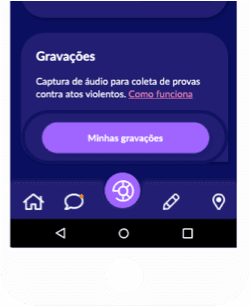
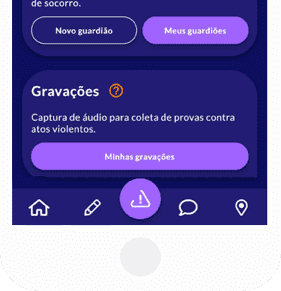
atualizando os tutoriais

diff --git a/penhas/lib/app/features/help_center/presentation/pages/tutorial/record/record_tutorial_page.dart b/penhas/lib/app/features/help_center/presentation/pages/tutorial/record/record_tutorial_page.dart
@@ -39,18 +39,18 @@ class _RecordTutorialPageState extends State<RecordTutorialPage> {
         image:
             AssetImage('assets/images/tutorial_record_3/tutorial_record_3.png'),
         width: 270,
-        fit: BoxFit.fitWidth,
+        fit: BoxFit.fitHeight,
         alignment: FractionalOffset.topCenter,
       ),
     ),
     TutorialPageViewWidget(
       description:
-          'Os áudios gravados no acionamento do botão de pânico ficam disponíveis em "Minhas gravações". Quando estiver segura, decida entre salvar ou descartar essas gravações.',
+          'Os áudios gravados ficam disponíveis em “Minhas gravações”. Uma gravação pode ser descartada a qualquer momento através da opção “Apagar”.',
       bodyWidget: Image(
         image:
             AssetImage('assets/images/tutorial_record_4/tutorial_record_4.png'),
         width: 270,
-        fit: BoxFit.fitWidth,
+        fit: BoxFit.fitHeight,
         alignment: FractionalOffset.topCenter,
       ),
     )

diff --git a/penhas/lib/app/features/quiz/presentation/tutorial/stealth_mode_tutorial_page.dart b/penhas/lib/app/features/quiz/presentation/tutorial/stealth_mode_tutorial_page.dart
@@ -28,12 +28,12 @@ class _StealthModeTutorialPageState extends State<StealthModeTutorialPage> {
       title:
           'Aplique um disfarce de app de signo para esconder o verdadeiro conteúdo do PenhaS',
       description:
-          'Para fazer entrar no app com o modo modo camuflado ativo, clique no botão "Diário astrológico" para ser direcionada para a tela de login.',
+          'Para fazer entrar no app com o modo camuflado ativo, clique no botão "Diário astrológico" para ser direcionada para a tela de login.',
       bodyWidget: Image(
         image: AssetImage(
             'assets/images/stealth_mode_tutorial_image_2/stealth_mode_tutorial_image_2.png'),
         width: 270,
-        fit: BoxFit.fitWidth,
+        fit: BoxFit.fitHeight,
         alignment: FractionalOffset.topCenter,
       ),
     ),

diff --git a/penhas/lib/app/features/help_center/presentation/pages/tutorial/guardian/guardian_tutorial_page.dart b/penhas/lib/app/features/help_center/presentation/pages/tutorial/guardian/guardian_tutorial_page.dart
@@ -21,7 +21,7 @@ class _GuardianTutorialPageState extends State<GuardianTutorialPage> {
     ),
     TutorialPageViewWidget(
       description:
-          'Em situações de emergência, abra a app, clique e segure no símbolo do seu signo para acionar o botão de pânico. Isso enviará um alerta para seus guardiões e durante 15 minutos um áudio será gravado.',
+          'Em situações de emergência, abra o app, clique e segure no símbolo do seu signo para acionar o botão de pânico. Isso enviará um alerta para seus guardiões e durante 15 minutos um áudio será gravado.',
       bodyWidget: Image(
         image: AssetImage(
             'assets/images/tutorial_guardian_2/tutorial_guardian_2.png'),
